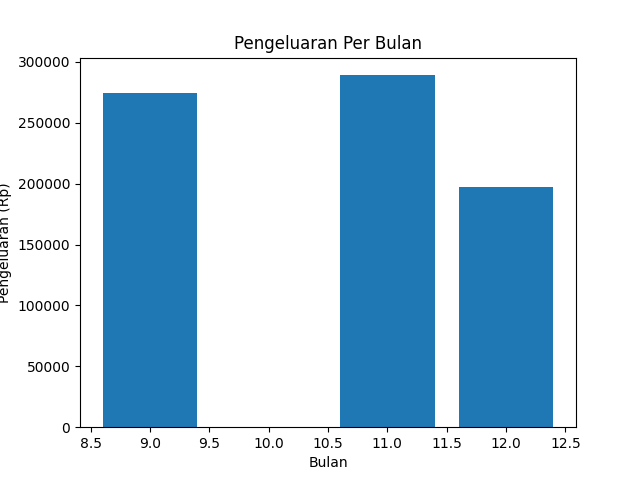
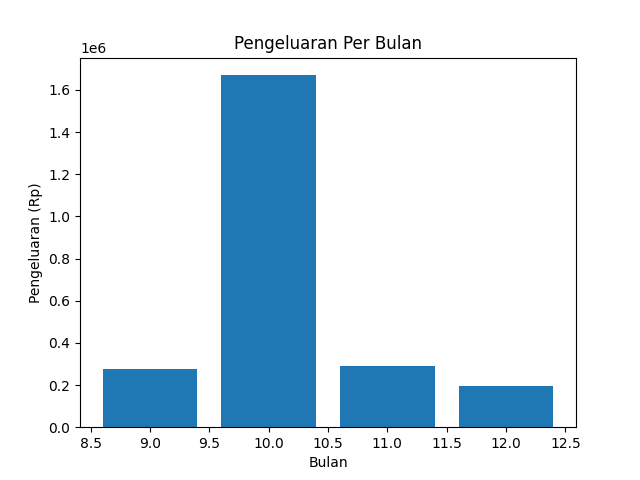
Finishing project

diff --git a/keuangan/keuangan/src/main/resources/templates/dashboard.html b/keuangan/keuangan/src/main/resources/templates/dashboard.html
@@ -9,6 +9,8 @@
 <div class="container mt-4">
     <h1>Dashboard Prediksi</h1>
     <p>Prediksi pengeluaran bulan depan: <strong th:text="${prediction}"></strong></p>
+    <p th:if="${std_dev != null}">Standar Deviasi Prediksi: <strong th:text="${std_dev}"></strong></p>
+    <p th:if="${std_dev == null}">Standar Deviasi Prediksi: <strong>Tidak Tersedia</strong></p>
 
     <div class="row">
         <!-- Pie Chart -->
@@ -30,7 +32,6 @@
 </div>
 
 <script>
-    // Pie Chart
     fetch('/transaksi/chart-data')
     .then(response => response.json())
     .then(data => {

diff --git a/flask-backend/model.py b/flask-backend/model.py
@@ -2,8 +2,9 @@ import pandas as pd
 from sklearn.linear_model import LinearRegression
 import pymysql
 import pickle
+import numpy as np
 
-# Fungsi untuk mengambil data transaksi dari database
+# Mengambil data transaksi dari database
 def get_data_from_db():
     connection = pymysql.connect(
         host='localhost',
@@ -19,12 +20,16 @@ def get_data_from_db():
     df_transaksi['month'] = pd.to_datetime(df_transaksi['tanggal']).dt.month
     return df_transaksi
 
-# Fungsi untuk melatih model
+# Melatih model
 def save_model():
     df = get_data_from_db()
 
     # Kelompokkan data per bulan dan kategori
     df_monthly = df.groupby(['month', 'kategori'])['jumlah'].sum().reset_index()
+
+    # Debugging
+    print("Data setelah pengelompokkan per bulan dan kategori:")
+    print(df_monthly)
 
     # Kelompokkan data hanya berdasarkan bulan untuk menghindari duplikat
     df_monthly_total = df_monthly.groupby('month')['jumlah'].sum().reset_index()
@@ -32,6 +37,10 @@ def save_model():
     # Pastikan semua bulan (1–12) ada, meskipun kosong
     full_months = pd.DataFrame({'month': range(1, 13)})
     df_monthly_total = pd.merge(full_months, df_monthly_total, on='month', how='left').fillna(0)
+
+    # Debugging
+    print("Total pengeluaran per bulan (termasuk bulan kosong):")
+    print(df_monthly_total)
 
     # One-hot encoding untuk kategori (gunakan df_monthly asli)
     X = pd.get_dummies(df_monthly[['month', 'kategori']], drop_first=True)
@@ -41,14 +50,34 @@ def save_model():
     X.fillna(0, inplace=True)
     y.fillna(0, inplace=True)
 
+    # Debugging
+    print(f"Shape of X: {X.shape}")
+    print(f"Shape of y: {y.shape}")
+    print("Fitur (X):")
+    print(X.head())
+    print("Target (y):")
+    print(y.head())
+
+    # Perbaikan jika panjang X dan y tidak sesuai
+    if len(X) != len(y):
+        print("Panjang X dan y tidak sesuai. Menyesuaikan...")
+        X = X.iloc[:len(y)]
+
     # Latih model regresi linear
     model = LinearRegression()
     model.fit(X, y)
 
-    # Simpan model ke file
+    # Prediksi untuk data pelatihan
+    y_pred = model.predict(X)
+
+    # Hitung standar deviasi residual
+    residuals = y - y_pred
+    std_dev = np.std(residuals)
+
+    # Simpan model dan standar deviasi ke file
     with open('model.pkl', 'wb') as file:
-        pickle.dump(model, file)
-    print("Model berhasil diperbarui dan disimpan.")
+        pickle.dump({'model': model, 'std_dev': std_dev}, file)
+    print("Model dan standar deviasi berhasil diperbarui dan disimpan.")
 
 if __name__ == '__main__':
     save_model()

diff --git a/flask-backend/app.py b/flask-backend/app.py
@@ -1,35 +1,34 @@
 from flask import Flask, request, jsonify
 import pickle
 import pandas as pd
-from model import save_model  
+from model import save_model, get_data_from_db
 
 app = Flask(__name__)
 
-# Fungsi untuk memuat model yang telah disimpan
+# Memuat model yang telah disimpan
 def load_model():
     with open('model.pkl', 'rb') as file:
-        model = pickle.load(file)
-    return model
+        data = pickle.load(file)
+    return data['model'], data['std_dev']
 
 # Endpoint untuk pelatihan ulang model
 @app.route('/retrain', methods=['POST'])
 def retrain_model():
     try:
         save_model()  
-        global model
-        model = load_model()  
+        global model, std_dev
+        model, std_dev = load_model()  
         return jsonify({'status': 'success', 'message': 'Model berhasil dilatih ulang.'})
     except Exception as e:
         return jsonify({'status': 'error', 'message': str(e)}), 500
 
 # Load model saat aplikasi dimulai
-model = load_model()
+model, std_dev = load_model()
 
 # Endpoint untuk prediksi pengeluaran bulan depan
 @app.route('/predict', methods=['POST'])
 def predict():
     try:
-        # Ambil data dari request
         data = request.get_json()
         months = data.get('months', [])
 
@@ -49,8 +48,12 @@ def predict():
         predicted_expense = model.predict(input_data)[0]
         rounded_expense = round(predicted_expense, -2)
         formatted_expense = f"Rp.{rounded_expense:,.0f}".replace(',', '.')
-
-        return jsonify({'status': 'success', 'prediction': formatted_expense})
+        formatted_std_dev = f"Rp.{std_dev:,.0f}".replace(',', '.')
+        return jsonify({
+            'status': 'success',
+            'prediction': formatted_expense,
+            'std_dev': formatted_std_dev
+        })
     except Exception as e:
         return jsonify({'status': 'error', 'message': str(e)}), 500
 
@@ -70,7 +73,6 @@ def chart_data():
         months = monthly_data.index.tolist()
         monthly_amounts = monthly_data.values.tolist()
 
-        # Data bulan terurut
         months_sorted = sorted(months)
         monthly_amounts_sorted = [monthly_amounts[months.index(month)] for month in months_sorted]
 
@@ -82,6 +84,6 @@ def chart_data():
         })
     except Exception as e:
         return jsonify({'error': str(e)}), 500
-    
+
 if __name__ == '__main__':
     app.run(debug=True, port=5000)

diff --git a/keuangan/keuangan/src/main/java/com/example/keuangan/controller/TransaksiController.java b/keuangan/keuangan/src/main/java/com/example/keuangan/controller/TransaksiController.java
@@ -108,7 +108,7 @@ public class TransaksiController {
                     .toList();
             double income = currentIncome.getAmount();
 
-            String prediction = getPredictionFromFlask(months, expenses, income);
+            String prediction = getPredictionFromFlask(months, expenses, income, model);
 
             model.addAttribute("prediction", prediction);
             model.addAttribute("totalIncome", income);
@@ -120,7 +120,7 @@ public class TransaksiController {
         return "dashboard";
     }
 
-    private String getPredictionFromFlask(List<Integer> months, List<Double> expenses, double income) {
+    private String getPredictionFromFlask(List<Integer> months, List<Double> expenses, double income, Model model) {
         String url = "http://localhost:5000/predict"; // Flask API endpoint
         Map<String, Object> requestBody = new HashMap<>();
         requestBody.put("months", months);
@@ -128,9 +128,14 @@ public class TransaksiController {
         requestBody.put("income", income);
 
         try {
-            return restTemplate.postForObject(url, requestBody, String.class);
+            Map<String, Object> response = restTemplate.postForObject(url, requestBody, Map.class);
+            String prediction = (String) response.get("prediction");
+            String stdDev = (String) response.get("std_dev");
+
+            model.addAttribute("std_dev", stdDev);
+            return prediction;
         } catch (Exception e) {
-            System.err.println("Error saat memanggil Flask API: " + e.getMessage());
+            model.addAttribute("error", "Gagal memanggil Flask API: " + e.getMessage());
             return "Tidak dapat memprediksi data saat ini.";
         }
     }

diff --git a/flask-backend/utils.py b/flask-backend/utils.py
@@ -3,7 +3,7 @@ import os
 import pymysql
 import pandas as pd
 
-# Fungsi untuk mengambil data dari database
+# Mengambil data dari database
 def get_data_from_db():
     try:
         connection = pymysql.connect(
@@ -30,12 +30,11 @@ def ensure_folder(folder_path):
 
 # Fungsi untuk menghasilkan grafik
 def generate_charts():
-    # Ambil data dari database
     df = get_data_from_db()
 
     # Pastikan folder untuk menyimpan chart tersedia
     chart_folder = os.path.join('static', 'charts')
-    ensure_folder(chart_folder)  # Pastikan folder tersedia
+    ensure_folder(chart_folder)  
 
     # Pie chart berdasarkan total pengeluaran per kategori
     try:
